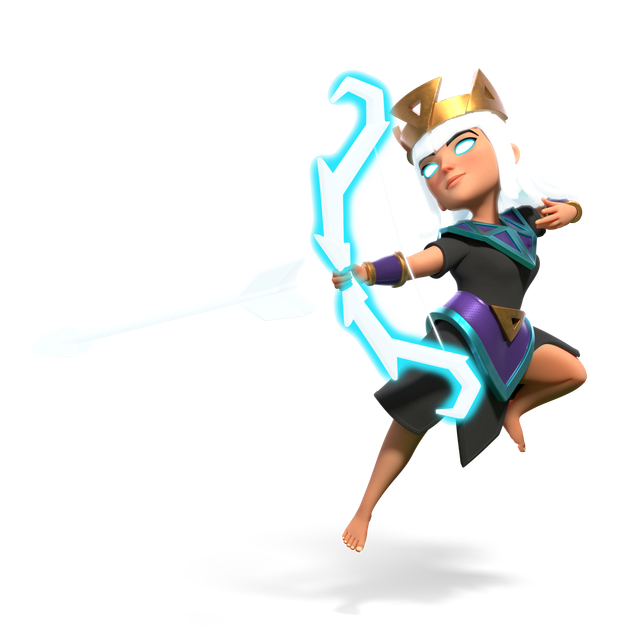
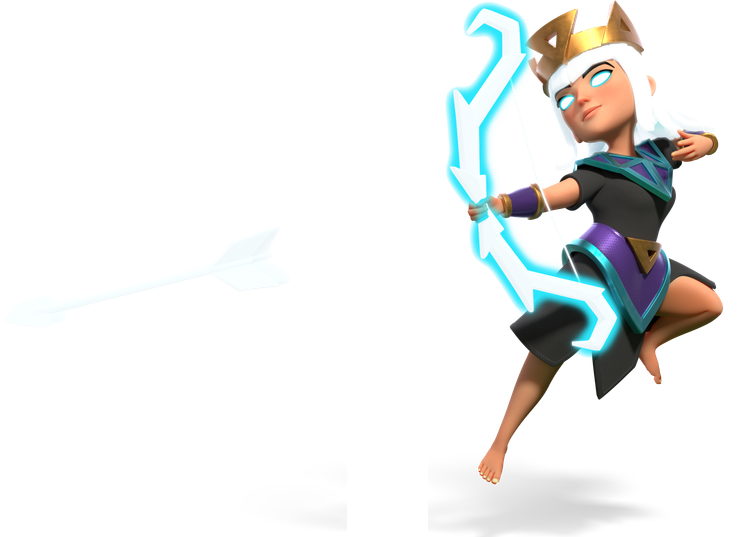
The 2 Containers in the hero div now take up 50% of the total space

Changed region(s): [[0.4688, 0.0, 0.9688, 0.9534], [0.625, 0.9236, 0.8438, 1.0]]

diff --git a/style.css b/style.css
@@ -49,7 +49,6 @@ nav {
 .hero {
     background-color: #1F2937;
     display: flex;
-    align-content: center;
     padding: 5rem;
 }
 
@@ -64,8 +63,14 @@ nav {
     color: #E5E7EB;
 }
 
-.hero .image-container {
+.hero .container {
+    flex: 1 1 50%;
+}
 
+.hero .image-container {
+    padding: 0;
+    margin: 0;
+    flex: 1 1 50%;
 }
 
 .hero button {
@@ -80,4 +85,5 @@ nav {
 .image-container img {
     width: 100%;
     height: auto;
+    align-self: center;
 }
